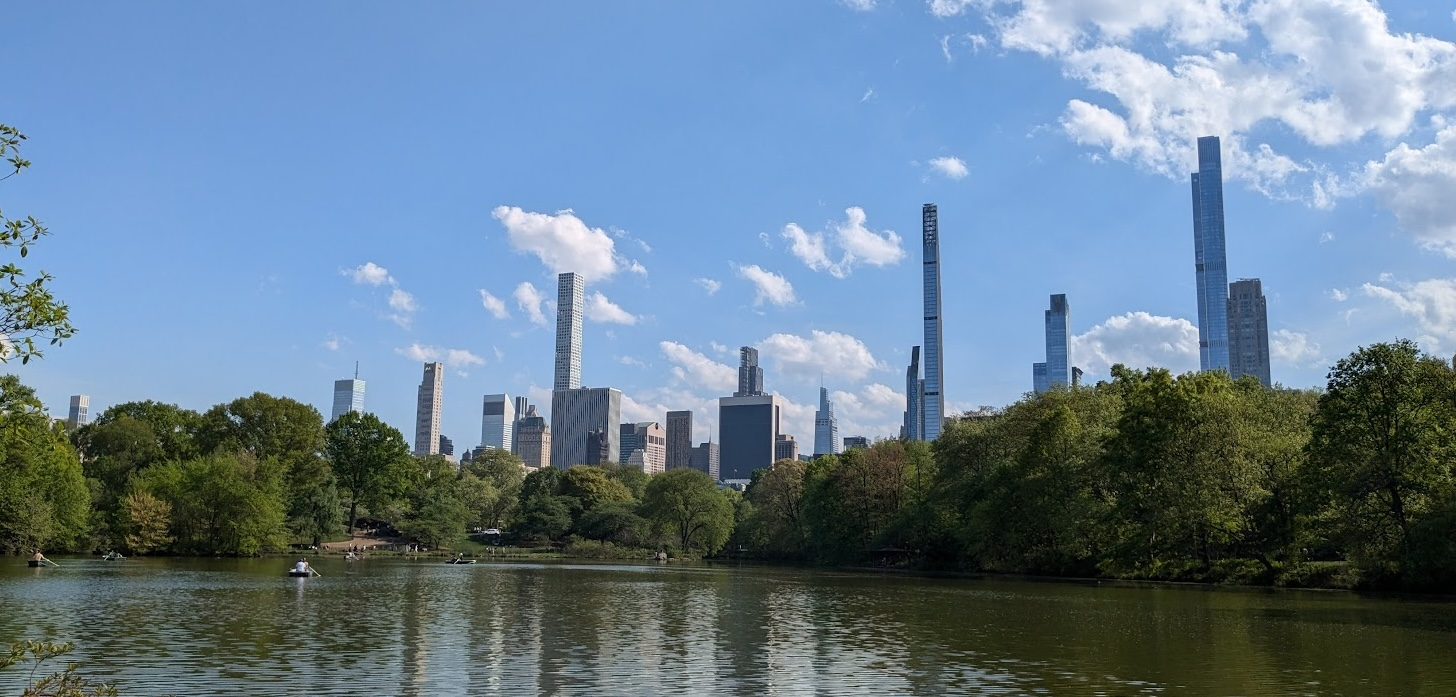
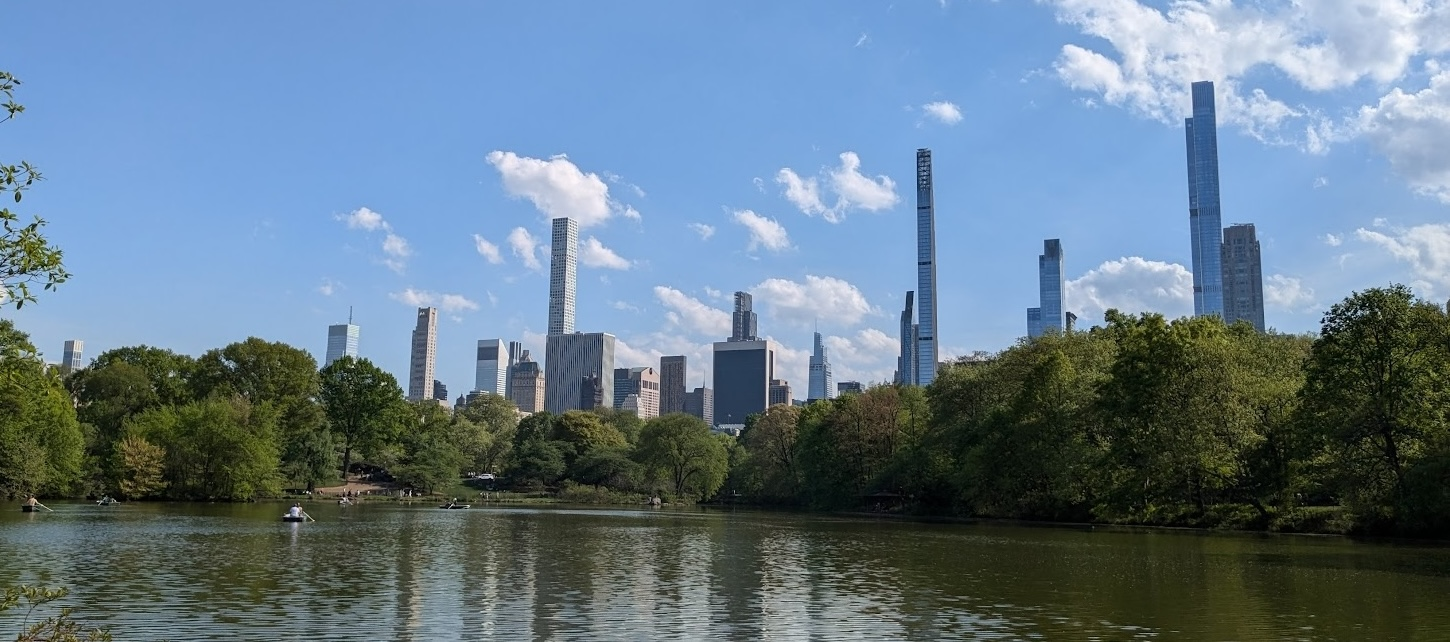
Edits and pics for team page

diff --git a/team.html b/team.html
@@ -58,12 +58,14 @@
 
   <header>
     <h1 class="header-title">Team</h1>   
+    <div class="linknav">
+      <a href="#collaborators" class="btn frosted mt-3 mb-3">Collaborators</a>
+    </div>
   </header>
 
   <section id="about-team">
     <div class="container section-content flex-column">   
       <div class="row">
-        <div class="col-md-2"></div>
         <div class="col-md-4 text-center">
           <img src="img/self2.jpg" class="img-fluid gallery" alt="Jesse Liu" >
           <p><h4>Jesse Liu</h4>
@@ -73,17 +75,22 @@
         </div>
         <div class="col-md-4 text-center">
           <img src="img/nyu-torch.jpg" class="img-fluid gallery">
+          <p><h4>Sebastian Rutherford Colmenares</h4>
+            Incoming Postdoctoral Researcher<br>
+            PhD University of Cambridge<br></p>
+        </div>
+        <div class="col-md-4 text-center">
+          <img src="img/astevens.jpeg" class="img-fluid gallery">
           <p><h4>Amelia Stevens</h4>
             Graduate Researcher<br>
             BS Haverford College<br></p>
         </div>
-        <div class="col-md-2"></div>
       </div>
     </div>
   </section>
 
 
-  <section class="container intro">  
+  <section class="container intro" id="collaborators">  
     <div class="section-header">
       <h2 class="section-title">Collaborators</h2>
       <div class="row">
